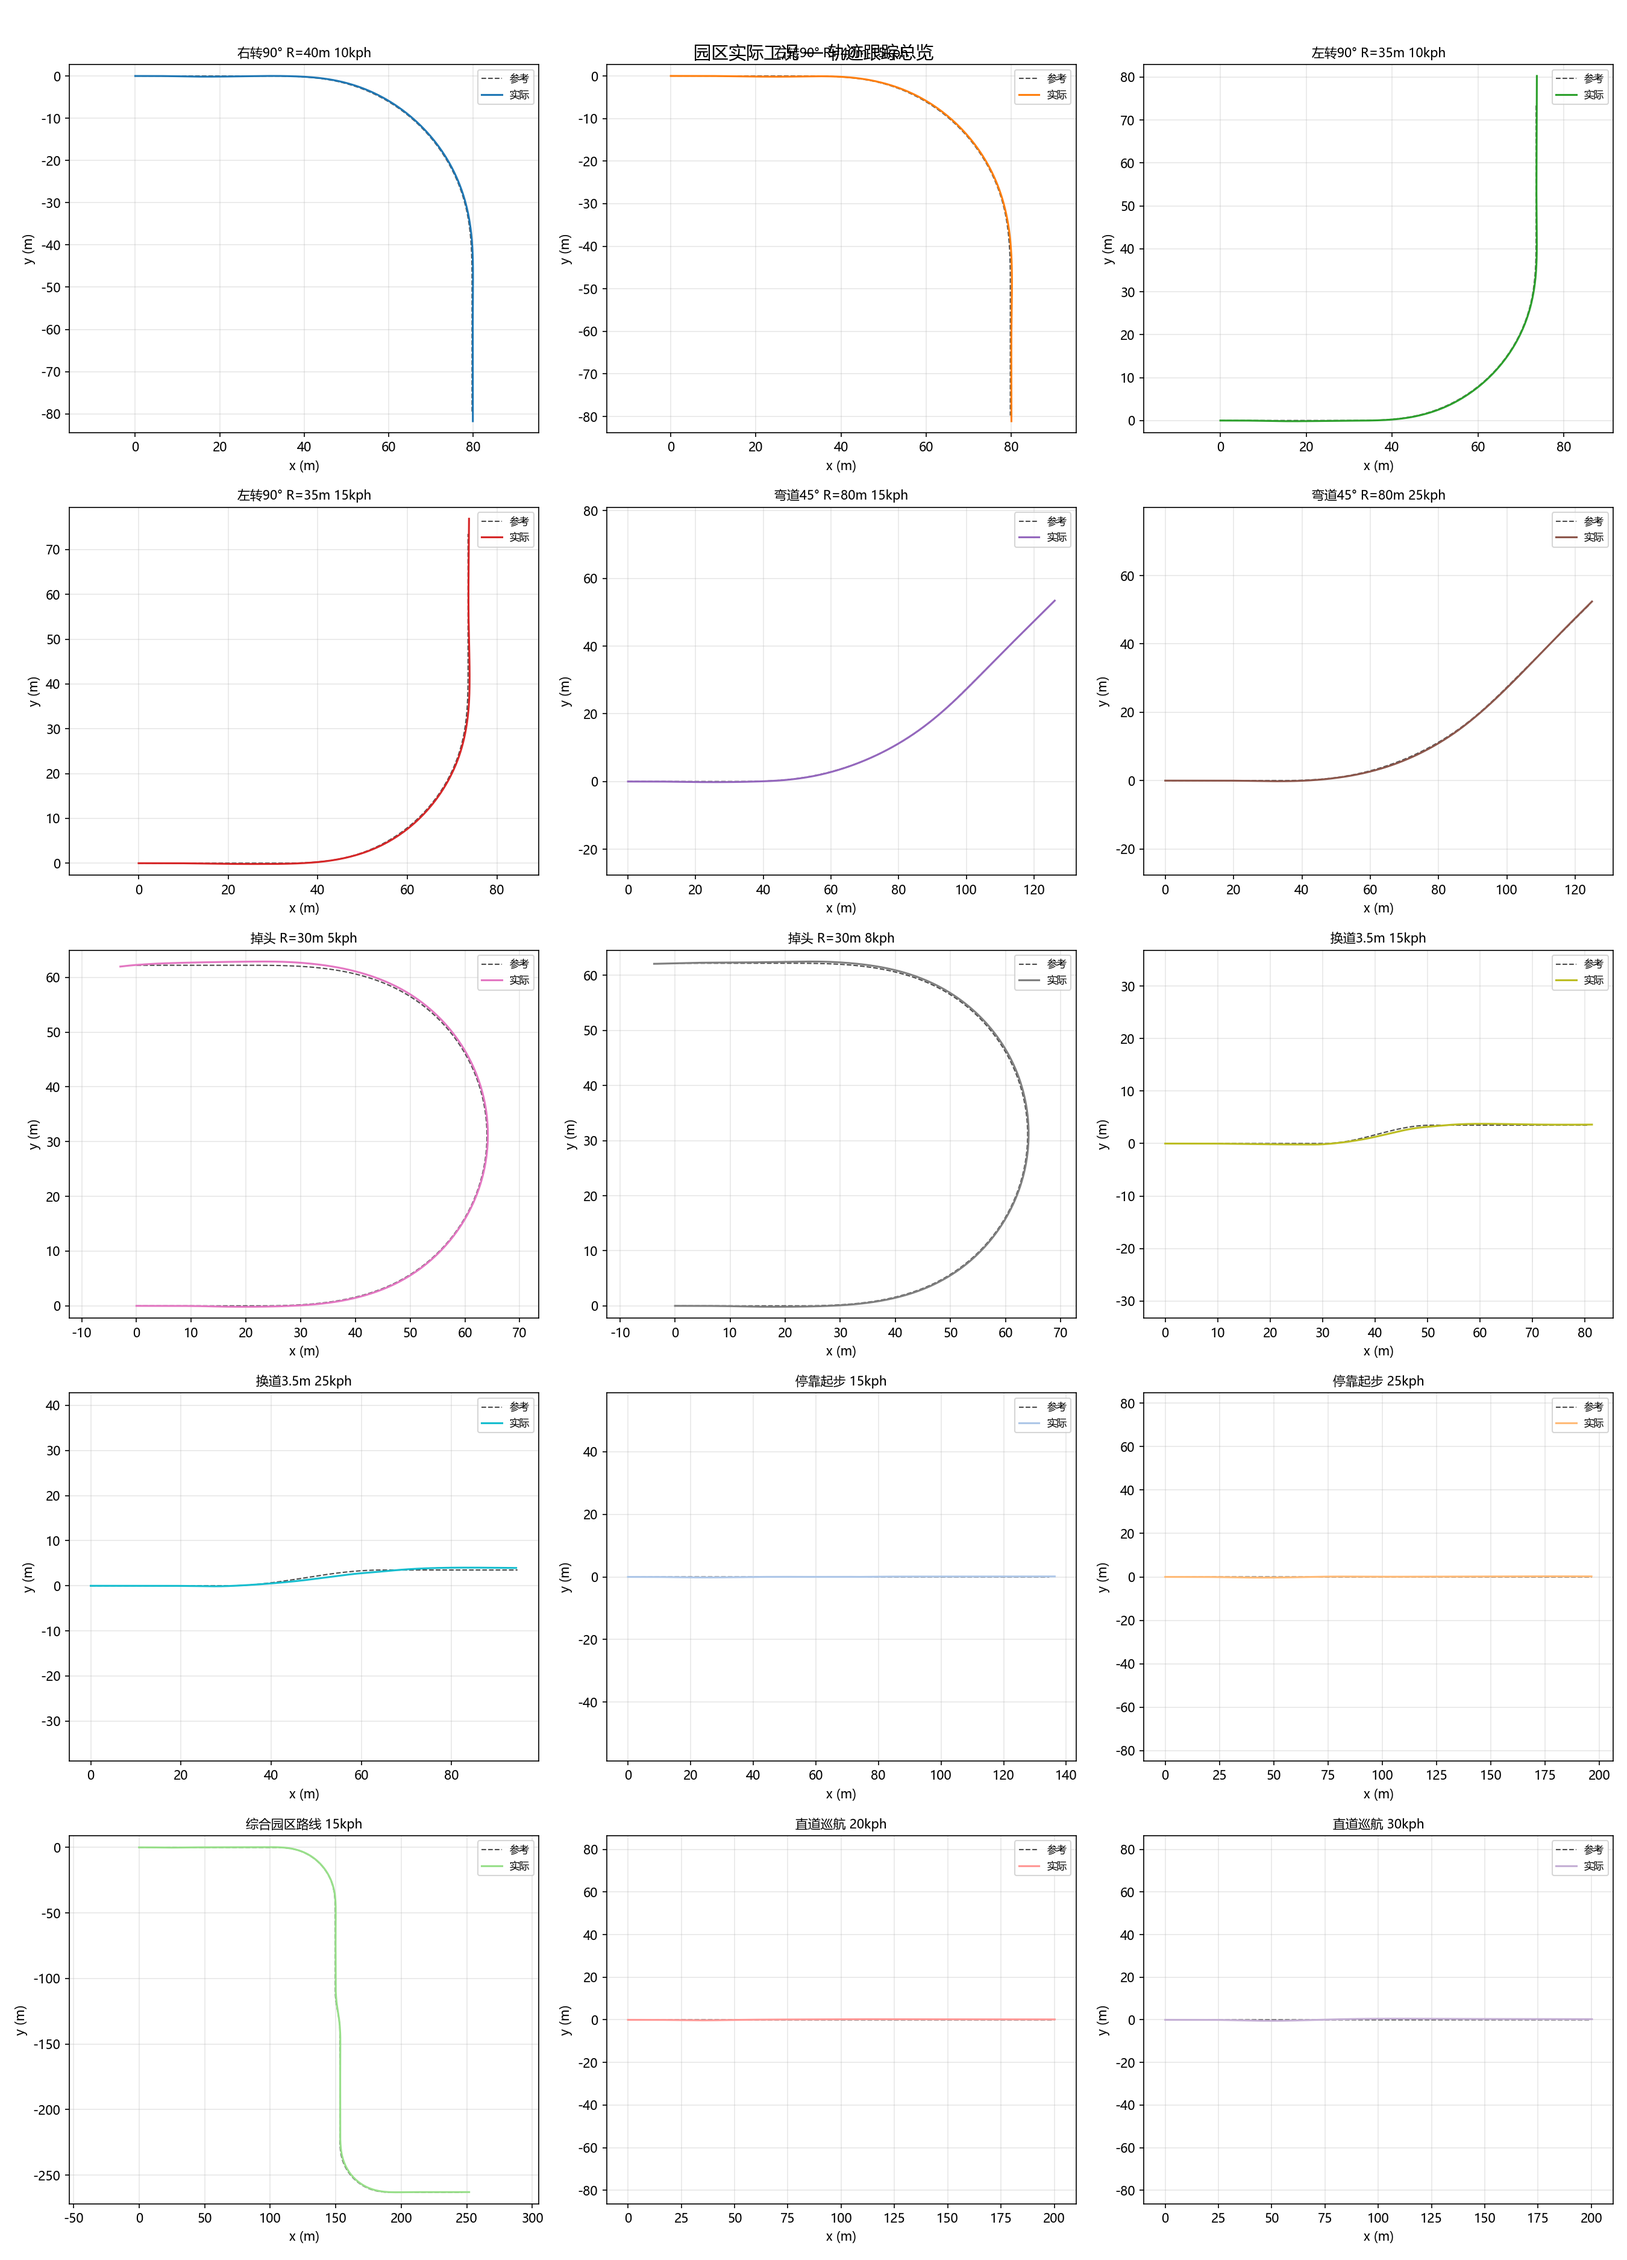
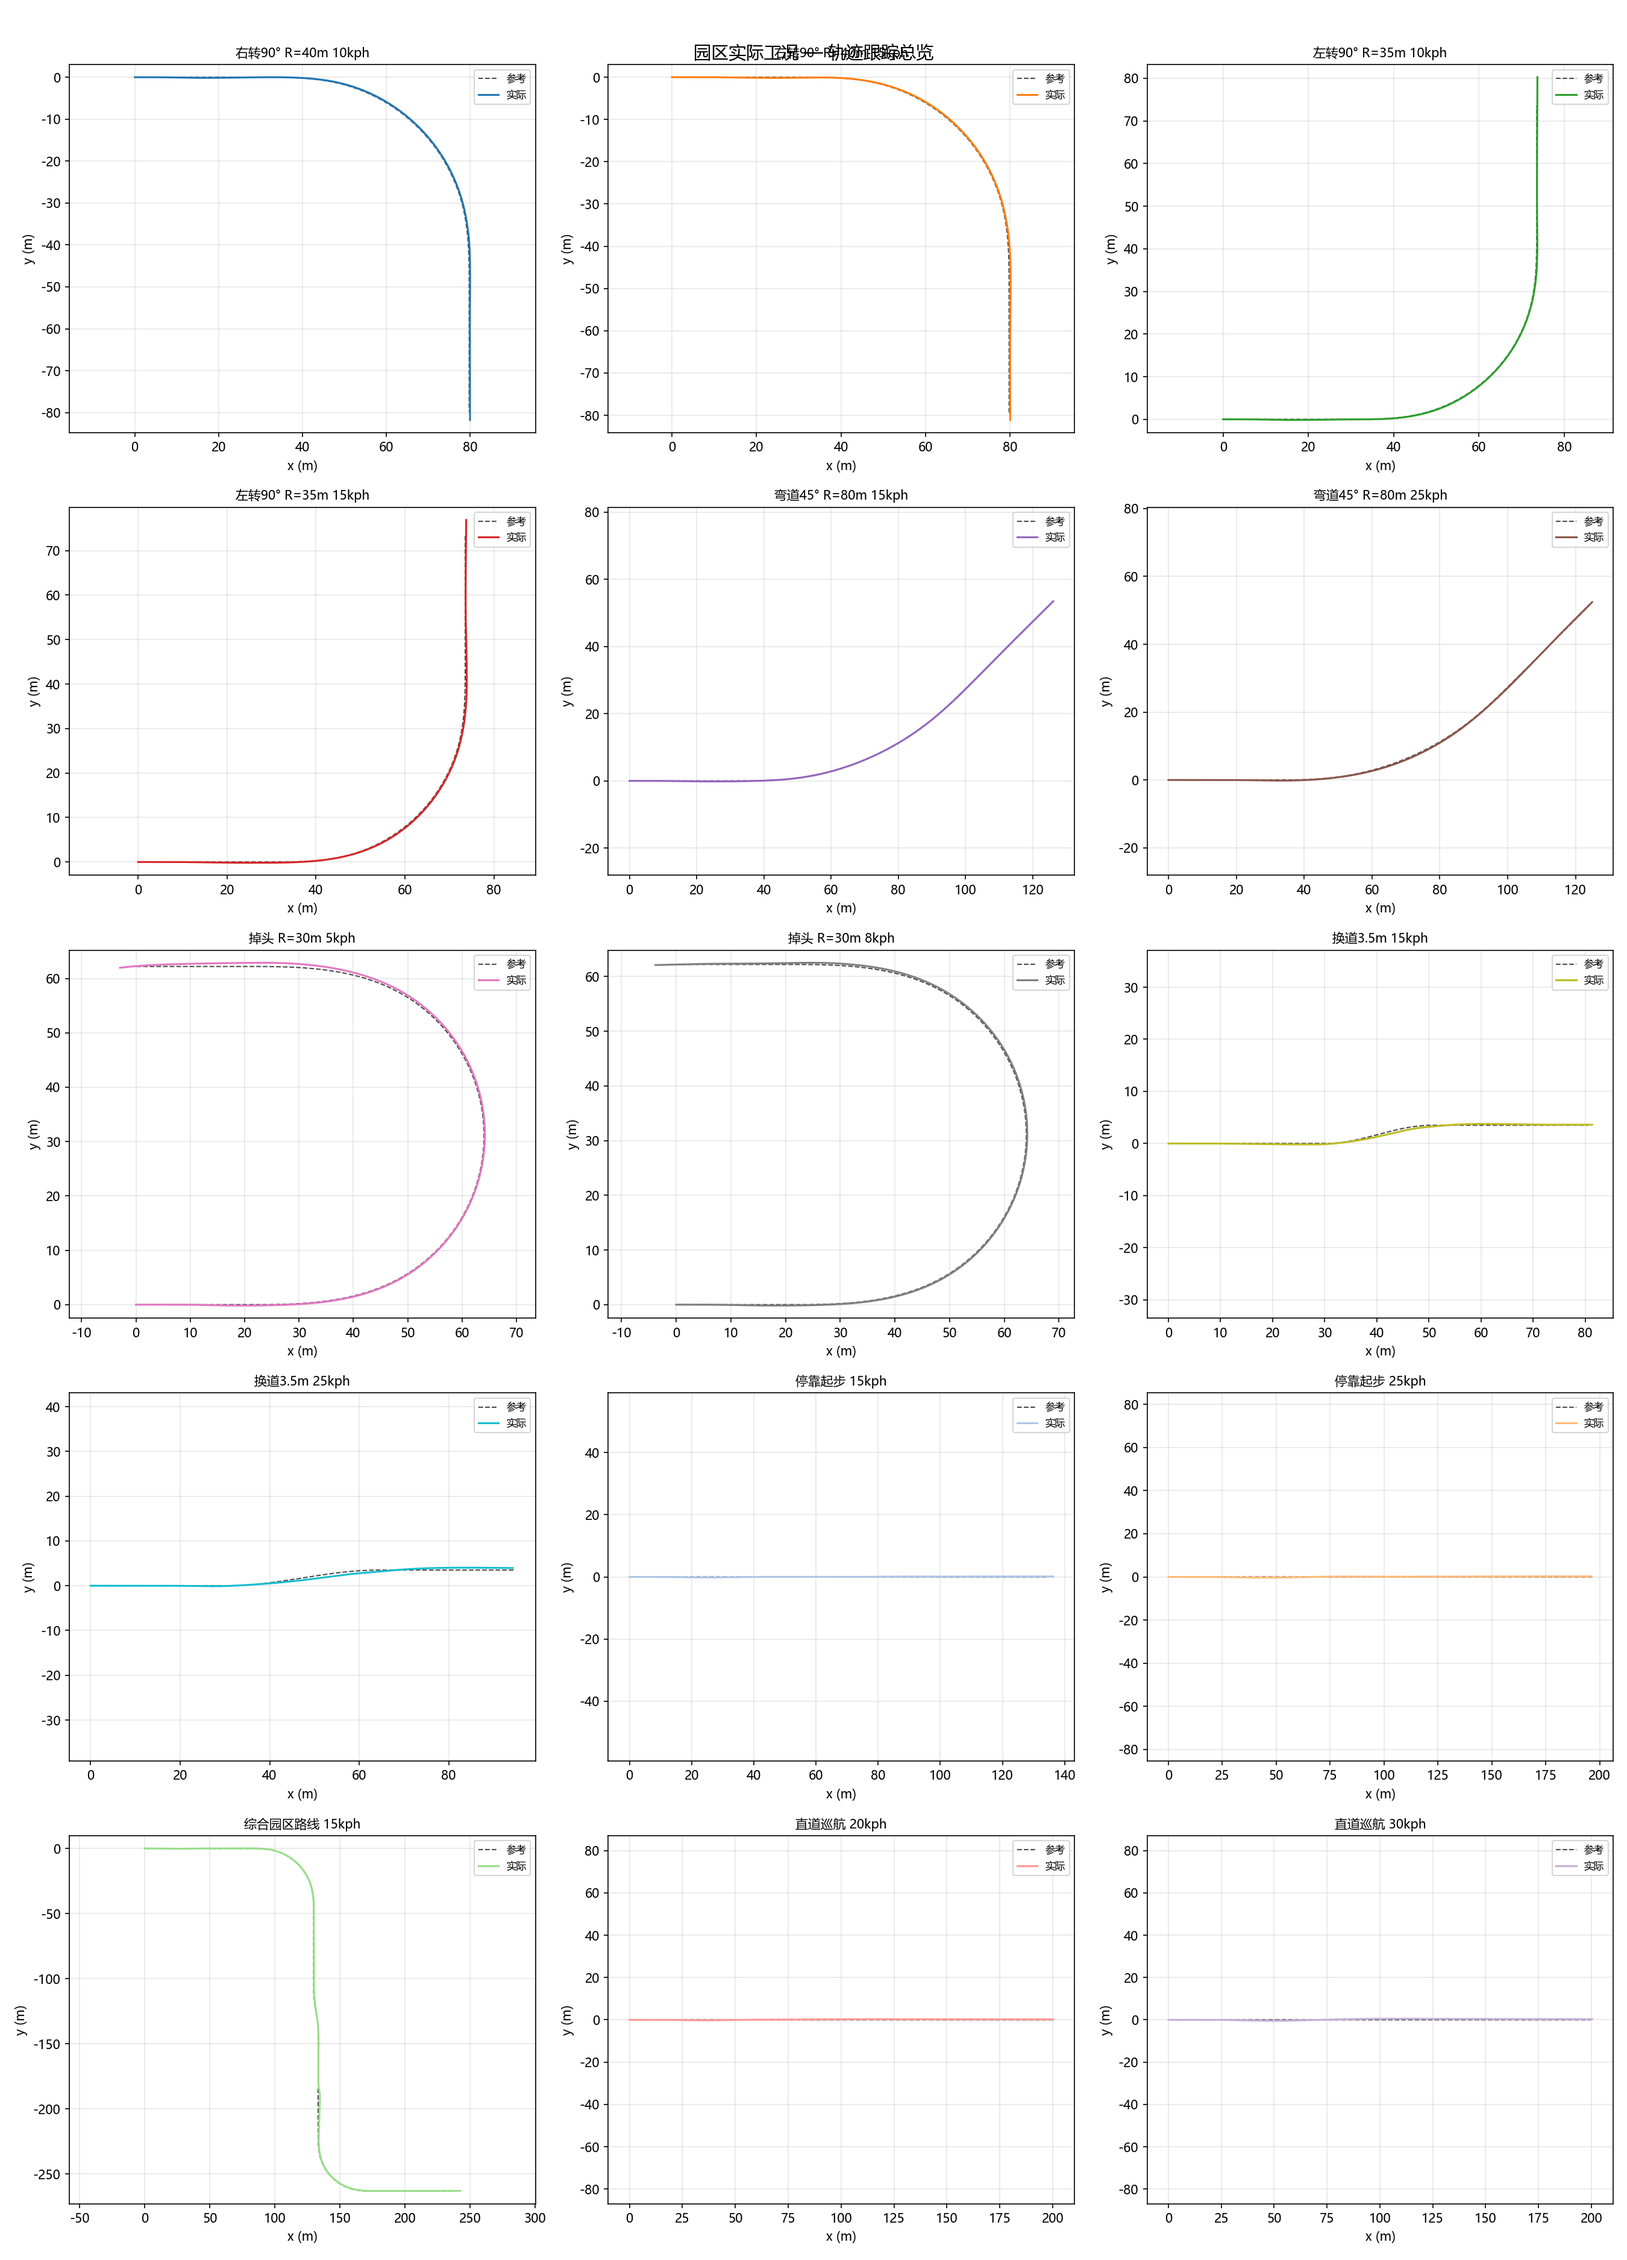
[sim] 改进综合园区路线：加入变速剖面和中途停靠
generate_park_route 从匀速改为变速：巡航→弯前减速→弯道慢行→
弯后加速→中途停靠 2s→起步→再次弯道→巡航。
修复 v=0 起步死锁问题（位置匹配机制下控制器无加速信号源）。

diff --git a/sim/model/trajectory.py b/sim/model/trajectory.py
@@ -588,23 +588,217 @@ def _chain_segments(segments: list[list[TrajectoryPoint]]) -> list[TrajectoryPoi
     return result
 
 
-def generate_park_route(speed: float = 4.17, dt: float = 0.02
-                        ) -> list[TrajectoryPoint]:
-    """生成综合园区路线：直道→右转→直道→换道→直道→左转→直道。
+def generate_park_route(cruise_speed: float = 4.17, turn_speed: float = 2.78,
+                        accel_rate: float = 0.5, stop_duration: float = 2.0,
+                        dt: float = 0.02) -> list[TrajectoryPoint]:
+    """生成综合园区路线（含速度变化和启停）。
 
-    默认速度 4.17 m/s ≈ 15 km/h，所有弯道带 clothoid 过渡。
+    路线：起步加速→直道巡航→减速右转→加速→直道→换道→直道→停靠→起步→
+          直道→减速左转→加速→直道→减速停车。
+
+    所有弯道带 clothoid 过渡，速度在弯前/弯后平滑过渡。
+
+    Args:
+        cruise_speed: 巡航速度 (m/s)，默认 4.17 ≈ 15 km/h
+        turn_speed: 弯道速度 (m/s)，默认 2.78 ≈ 10 km/h
+        accel_rate: 加减速率 (m/s²)
+        stop_duration: 中途停车时长 (s)
     """
-    seg1 = generate_straight(100.0, speed, dt)
-    seg2 = generate_clothoid_turn(40.0, -math.pi / 2, speed,
-                                  lead_in=0, lead_out=0, dt=dt)
-    seg3 = generate_straight(60.0, speed, dt)
-    seg4 = generate_lane_change(3.5, 30.0, speed,
-                                lead_in=0, lead_out=0, dt=dt)
-    seg5 = generate_straight(80.0, speed, dt)
-    seg6 = generate_clothoid_turn(35.0, math.pi / 2, speed,
-                                  lead_in=0, lead_out=0, dt=dt)
-    seg7 = generate_straight(50.0, speed, dt)
-    return _chain_segments([seg1, seg2, seg3, seg4, seg5, seg6, seg7])
+    clothoid_ratio = 0.3
+
+    # ── 1. 定义路段几何（曲率 vs 弧长）──
+    # 每段: (type, length, [extra params])
+    R1, angle1 = 40.0, math.pi / 2   # 右转（sign 在曲率中处理）
+    R2, angle2 = 35.0, math.pi / 2   # 左转
+
+    def _turn_lengths(R, angle):
+        theta_cl = clothoid_ratio * angle / 2
+        L_cl = 2 * theta_cl * R
+        L_arc = (1 - clothoid_ratio) * angle * R
+        return L_cl, L_arc, 2 * L_cl + L_arc
+
+    L_cl1, L_arc1, turn1_len = _turn_lengths(R1, angle1)
+    L_cl2, L_arc2, turn2_len = _turn_lengths(R2, angle2)
+
+    # 段列表: (type, length, ...)
+    # type: 'S'=straight, 'T'=turn, 'LC'=lane_change
+    seg_defs = [
+        ('S', 80.0),                                        # seg0: 起步+巡航
+        ('T', turn1_len, -1.0 / R1, L_cl1, L_arc1),       # seg1: 右转
+        ('S', 60.0),                                        # seg2: 直道
+        ('LC', 30.0, 3.5),                                  # seg3: 换道
+        ('S', 40.0),                                        # seg4: 直道→停靠点
+        ('S', 40.0),                                        # seg5: 停靠后→直道
+        ('T', turn2_len, 1.0 / R2, L_cl2, L_arc2),        # seg6: 左转
+        ('S', 60.0),                                        # seg7: 直道→终点停车
+    ]
+
+    # 计算段边界
+    seg_bounds = [0.0]
+    for sd in seg_defs:
+        seg_bounds.append(seg_bounds[-1] + sd[1])
+    total_length = seg_bounds[-1]
+
+    # ── 2. 构建曲率函数 κ(s) ──
+    def kappa_at(s):
+        for i, sd in enumerate(seg_defs):
+            if s < seg_bounds[i] or s > seg_bounds[i + 1]:
+                continue
+            ls = s - seg_bounds[i]  # local arc length within segment
+            if sd[0] == 'S':
+                return 0.0
+            elif sd[0] == 'T':
+                _, length, kmax, L_cl, L_arc = sd
+                if ls <= L_cl:
+                    return kmax * (ls / L_cl) if L_cl > 0 else kmax
+                elif ls <= L_cl + L_arc:
+                    return kmax
+                elif ls <= 2 * L_cl + L_arc:
+                    return kmax * (1 - (ls - L_cl - L_arc) / L_cl)
+                return 0.0
+            elif sd[0] == 'LC':
+                _, length, d = sd
+                k = math.pi / length
+                dydx = (d / 2) * k * math.sin(k * ls)
+                d2ydx2 = (d / 2) * k * k * math.cos(k * ls)
+                return d2ydx2 / (1 + dydx ** 2) ** 1.5
+        return 0.0
+
+    # ── 3. 精细离散化几何 ──
+    ds = 0.01
+    n_fine = int(total_length / ds) + 1
+    fine_x = [0.0]
+    fine_y = [0.0]
+    fine_theta = [0.0]
+    fine_kappa = [0.0]
+    x, y, theta = 0.0, 0.0, 0.0
+    for i in range(1, n_fine + 1):
+        s_i = i * ds
+        kappa = kappa_at(s_i)
+        theta += kappa * ds
+        x += math.cos(theta) * ds
+        y += math.sin(theta) * ds
+        fine_x.append(x)
+        fine_y.append(y)
+        fine_theta.append(theta)
+        fine_kappa.append(kappa)
+
+    # ── 4. 构建速度剖面 v(s)：分段线性 ──
+    # 加减速所需距离
+    def _accel_dist(v0, v1):
+        """从 v0 加/减速到 v1 所需距离 = (v1²-v0²) / (2a)"""
+        return abs(v1 * v1 - v0 * v0) / (2 * accel_rate)
+
+    d_start = _accel_dist(0, cruise_speed)           # 起步距离
+    d_to_turn = _accel_dist(turn_speed, cruise_speed) # 巡航→弯速
+    d_from_turn = d_to_turn                           # 弯速→巡航
+    d_stop = _accel_dist(cruise_speed, 0)             # 巡航→停
+
+    turn1_s = seg_bounds[1]  # 右转起点弧长
+    turn1_e = seg_bounds[2]  # 右转终点
+    stop_s = seg_bounds[5]   # 停靠点（seg4 终点 = seg5 起点）
+    turn2_s = seg_bounds[6]  # 左转起点
+    turn2_e = seg_bounds[7]  # 左转终点
+
+    # 速度航点: (arc_length, speed)，按弧长递增
+    # 起点和终点保持巡航速度（起停场景由 stop_and_go 单独覆盖），中途有停靠
+    speed_wps = [
+        (0.0, cruise_speed),
+        (turn1_s - d_to_turn, cruise_speed),
+        (turn1_s, turn_speed),
+        (turn1_e, turn_speed),
+        (turn1_e + d_from_turn, cruise_speed),
+        (stop_s - d_stop, cruise_speed),
+        (stop_s, 0.0),                            # 停车点
+        (stop_s, 0.0),                            # 停车后（stop_duration 在时间域处理）
+        (stop_s + d_start, cruise_speed),
+        (turn2_s - d_to_turn, cruise_speed),
+        (turn2_s, turn_speed),
+        (turn2_e, turn_speed),
+        (turn2_e + d_from_turn, cruise_speed),
+        (total_length, cruise_speed),
+    ]
+
+    # 去除无效航点（弧长越界或逆序）并排序
+    clean_wps = []
+    for s_wp, v_wp in speed_wps:
+        s_wp = max(0.0, min(s_wp, total_length))
+        if clean_wps and s_wp < clean_wps[-1][0]:
+            continue  # 跳过逆序点
+        clean_wps.append((s_wp, v_wp))
+
+    def speed_at(s):
+        if s <= clean_wps[0][0]:
+            return clean_wps[0][1]
+        if s >= clean_wps[-1][0]:
+            return clean_wps[-1][1]
+        for j in range(len(clean_wps) - 1):
+            s0, v0 = clean_wps[j]
+            s1, v1 = clean_wps[j + 1]
+            if s0 <= s <= s1:
+                if s1 - s0 < 1e-6:
+                    return v1
+                frac = (s - s0) / (s1 - s0)
+                return v0 + frac * (v1 - v0)
+        return 0.0
+
+    # ── 5. 按变速步进生成轨迹点 ──
+    pts = []
+    s_cur, t_cur = 0.0, 0.0
+
+    # 起点
+    v0 = speed_at(0.0)
+    pts.append(TrajectoryPoint(x=0.0, y=0.0, theta=0.0,
+                               kappa=kappa_at(0.0), v=v0, a=0.0, s=0.0, t=0.0))
+
+    def _lookup_geom(s_val):
+        """从精细几何数组中插值 (x, y, theta, kappa)。"""
+        idx = min(int(s_val / ds), len(fine_x) - 2)
+        f = (s_val - idx * ds) / ds
+        return (fine_x[idx] + f * (fine_x[idx + 1] - fine_x[idx]),
+                fine_y[idx] + f * (fine_y[idx + 1] - fine_y[idx]),
+                fine_theta[idx] + f * (fine_theta[idx + 1] - fine_theta[idx]),
+                fine_kappa[idx] + f * (fine_kappa[idx + 1] - fine_kappa[idx]))
+
+    def _append_stop(s_val, n_steps):
+        """在 s_val 位置插入 n_steps 个停车点。"""
+        gx, gy, gth, gk = _lookup_geom(s_val)
+        for _ in range(n_steps):
+            nonlocal t_cur
+            t_cur += dt
+            pts.append(TrajectoryPoint(x=gx, y=gy, theta=gth, kappa=gk,
+                                       v=0.0, a=0.0, s=s_val, t=t_cur))
+
+    # 速度阈值：低于此值视为已停车，跳到目标点
+    V_SNAP = 0.15  # m/s
+
+    stop_done = False
+    while s_cur < total_length - 1e-6:
+        v = speed_at(s_cur)
+
+        # 中途停靠：速度降到阈值以下且接近停靠点
+        if not stop_done and v < V_SNAP and abs(s_cur - stop_s) < 2.0:
+            s_cur = stop_s
+            _append_stop(s_cur, int(stop_duration / dt))
+            stop_done = True
+            continue
+
+        # 终点停车：速度降到阈值以下且接近终点
+        if v < V_SNAP and (total_length - s_cur) < 2.0:
+            break
+
+        # 前进一步（max 防止零速死循环，记录值仍用真实速度）
+        ds_step = max(v, 0.05) * dt
+        s_cur = min(s_cur + ds_step, total_length)
+        t_cur += dt
+
+        gx, gy, gth, gk = _lookup_geom(s_cur)
+        v_now = speed_at(s_cur)
+        a = (v_now - v) / dt if dt > 0 else 0.0
+        pts.append(TrajectoryPoint(x=gx, y=gy, theta=gth, kappa=gk,
+                                   v=v_now, a=a, s=s_cur, t=t_cur))
+
+    return pts
 
 
 class TrajectoryAnalyzer:

diff --git a/sim/run_realistic_eval.py b/sim/run_realistic_eval.py
@@ -216,7 +216,7 @@ def build_scenarios():
 
     # --- 综合园区路线 ---
     v = 15.0 / 3.6
-    traj = generate_park_route(v)
+    traj = generate_park_route(cruise_speed=v)
     scenarios.append(('综合园区路线 15kph', traj, v, 'park_route_15kph'))
 
     # --- 直道巡航 ---
